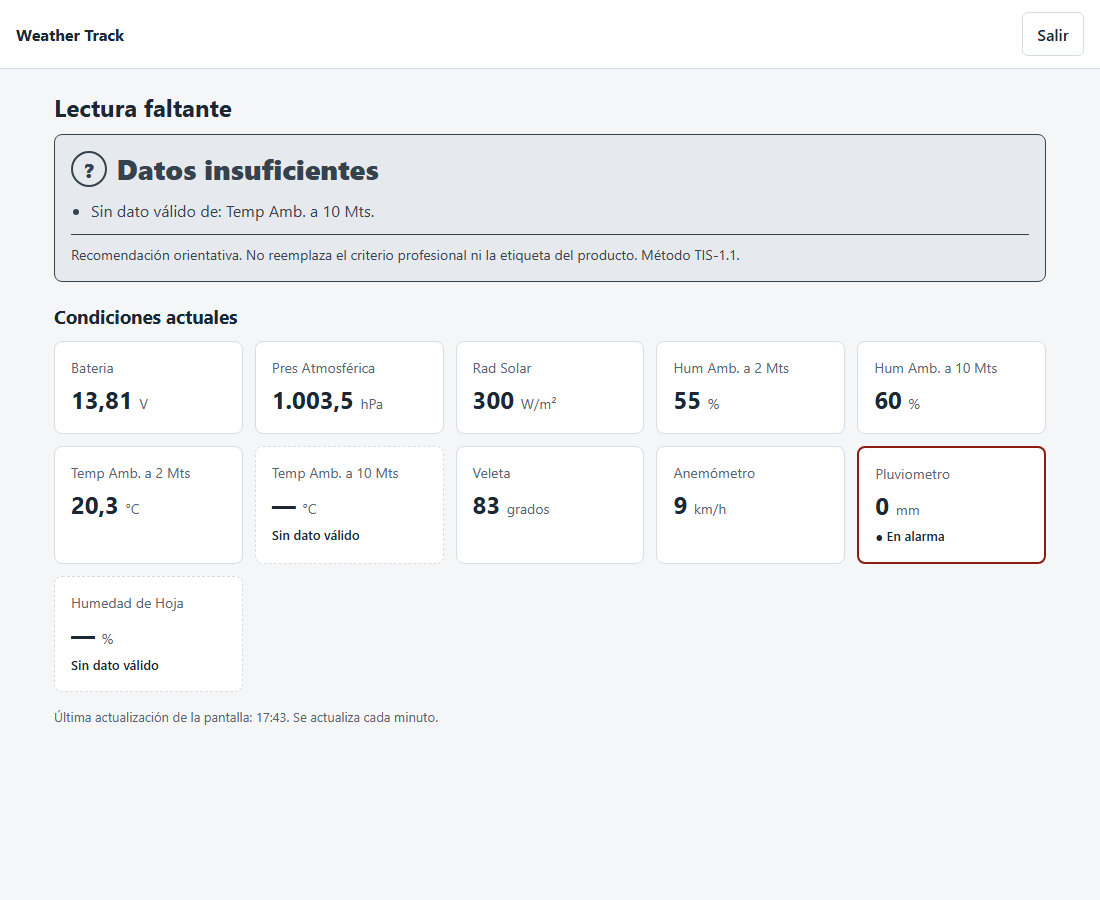
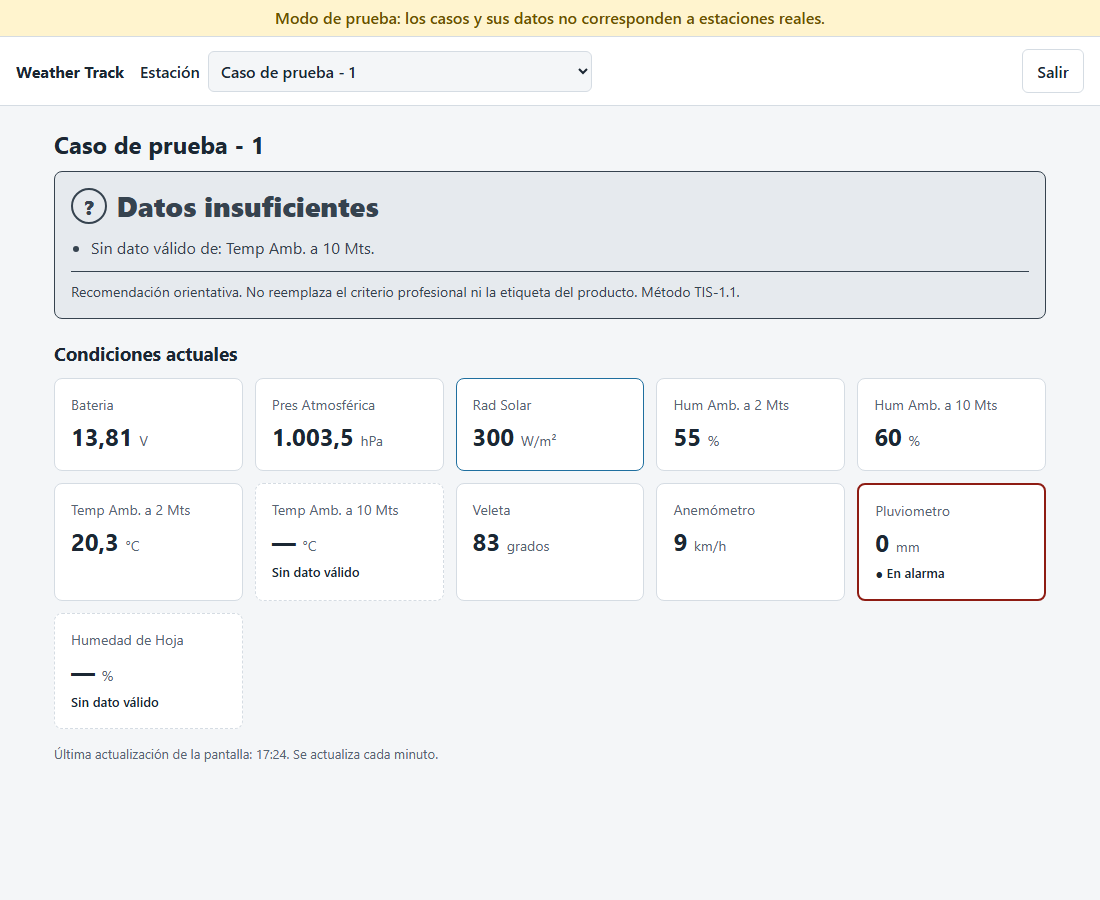
docs(estaciones): README, guía de la demo y capturas del selector (grupo 6)
- F2 del README: selector siempre visible y equipos inactivos con solo sus
  históricos. Diagrama de la experiencia de usuario y tabla de pruebas al día.
- Ocho capturas nuevas: cuatro en modo simulado, con INTA Pergamino, y cuatro
  en modo prueba, con las situaciones cargadas en el caso 1, el selector y un
  equipo inactivo.
- La guía de la demo muestra el selector y el aviso de modo.
- weather-track-estaciones queda con sus 20 tareas hechas; se archiva cuando
  el responsable apruebe la aplicación local.

diff --git a/readme.md b/readme.md
@@ -63,7 +63,7 @@ https://github.com/dinannopabloguillermo/AI4Devs-finalproject-temp
 | ID | Funcionalidad | Descripción |
 |---|---|---|
 | F1 | Acceso | Inicio y cierre de sesión con cuentas propias de Weather Track. Las cuentas las crea un administrador; no hay registro público. |
-| F2 | Estación | Selección entre las estaciones asignadas al usuario. |
+| F2 | Estación | Selector siempre visible con las estaciones: cada una es un equipo de SAT2, hoy INTA Pergamino. Un equipo que deja de llegar de SAT2 queda inactivo y muestra solo sus históricos. |
 | F3 | Condiciones actuales | Una tarjeta por sensor con valor, unidad, calidad del dato y antigüedad. |
 | F4 | Recomendación | Estado de aplicación, índice TIS (Índice de Inversión Térmica), diferencia térmica y motivos. |
 | F5 | Históricos | Serie por sensor de los últimos 7 o 31 días, con resumen estadístico. |
@@ -126,25 +126,31 @@ La recomendación es **orientativa** y la pantalla lo indica siempre. Los pesos 
 
 ```mermaid
 flowchart LR
-    A["Acceso"] --> B["Elegir estación"]
-    B --> C["Pantalla de decisión"]
+    A["Acceso"] --> C["Pantalla de decisión<br/>de la primera estación activa"]
+    B["Selector de estación<br/>en el encabezado"] --> C
+    B --> G["Equipo inactivo:<br/>solo históricos"]
     C --> D["Motivos de la recomendación"]
     C --> E["Detalle de un sensor"]
+    G --> E
     E --> F["Históricos"]
 ```
 
 La **pantalla de decisión** es el centro de la experiencia. Muestra primero el estado de aplicación con su color, debajo los motivos y el aviso de que es orientativa, y al final las tarjetas de sensores. Se actualiza sola cada 60 segundos. Si los datos no son vigentes, el estado pasa a `DATOS_INSUFICIENTES` y explica por qué.
 
-Capturas del MVP, con datos ficticios:
+El encabezado tiene siempre el selector de estación, aunque haya una sola. En los modos con datos ficticios, una franja lo avisa en todas las pantallas.
+
+Capturas del MVP, con datos ficticios. Las primeras cuatro son del modo `simulado`, con el nombre de la estación real; las demás, del modo `prueba`, con las situaciones cargadas en "Caso de prueba - 1":
 
 | Pantalla | Captura |
 |---|---|
-| Acceso | ![Pantalla de acceso](docs/capturas/acceso.png) |
-| Decisión: apto | ![Estado apto para aplicar](docs/capturas/decision-apto.png) |
-| Decisión: no aplicar | ![Estado no aplicar por inversión con poco viento](docs/capturas/decision-no-aplicar.png) |
-| Decisión: datos insuficientes | ![Estado datos insuficientes por una lectura faltante](docs/capturas/decision-datos-insuficientes.png) |
+| Acceso | ![Pantalla de acceso con el aviso de datos simulados](docs/capturas/acceso.png) |
+| Decisión: apto | ![Estado apto para aplicar en INTA Pergamino](docs/capturas/decision-apto.png) |
 | Detalle e históricos | ![Detalle de un sensor con su gráfico y resumen](docs/capturas/detalle-sensor.png) |
 | Móvil, a 360 píxeles | ![Pantalla de decisión en un celular](docs/capturas/decision-movil.png) |
+| Decisión: no aplicar | ![Estado no aplicar por inversión con poco viento](docs/capturas/decision-no-aplicar.png) |
+| Decisión: datos insuficientes | ![Estado datos insuficientes por una lectura faltante](docs/capturas/decision-datos-insuficientes.png) |
+| Selector con dos estaciones | ![Encabezado con el selector de estación](docs/capturas/selector-estacion.png) |
+| Equipo inactivo | ![Equipo inactivo con la lista de sensores para ver sus históricos](docs/capturas/equipo-inactivo.png) |
 
 En `docs/prototipo/` quedan las capturas del prototipo de validación, que sirvió de referencia. No son del MVP.
 
@@ -370,13 +376,13 @@ Implementado y revisado en el [informe de seguridad](docs/seguridad/revision-ent
 
 ### **2.6. Tests**
 
-Resultado de la última ejecución, el 2 de noviembre de 2026: todas pasan.
+Resultado de la última ejecución, el 4 de noviembre de 2026: todas pasan.
 
 | Nivel | Herramienta | Qué cubre | Pruebas |
 |---|---|---|---|
-| Unitario, integración e ingesta | pytest, con PostgreSQL de prueba y SAT2 simulado | Motor, normalización, calidad, rutas de la API, permisos, restricciones de la base, ingesta y errores de SAT2 | 355 |
-| Frontend | Vitest, Testing Library | Estados de la pantalla de decisión y flujos de acceso e históricos | 46 |
-| Extremo a extremo | Playwright, contra la pila completa en contenedores | HU1, HU2 y HU3 básica, con los cinco estados y las reglas R1 a R4 | 14 |
+| Unitario, integración e ingesta | pytest, con PostgreSQL de prueba y SAT2 simulado | Motor, normalización, calidad, rutas de la API, permisos, restricciones de la base, ingesta, errores de SAT2, equipos inactivos, separación de datos reales y ficticios, modo prueba y situaciones | 428 |
+| Frontend | Vitest, Testing Library | Estados de la pantalla de decisión, selector de estación, equipo inactivo, avisos de modo y flujos de acceso e históricos | 52 |
+| Extremo a extremo | Playwright, contra la pila completa en modo prueba | HU1, HU2 y HU3 básica, con los cinco estados y las reglas R1 a R4 cargados como situaciones en "Caso de prueba - 1", más el selector y el equipo inactivo | 17 |
 | Seguridad | [`pruebas_negativas.py`](backend/herramientas/pruebas_negativas.py), contra la configuración de producción | Autorización, sesión, entradas, cabeceras y carga | 77 |
 
 Además, la ingesta se probó una vez contra SAT2 real, durante 38 minutos y con 48.427 lecturas. Los comandos están en la [sección 1.4](#14-instrucciones-de-instalación).

diff --git a/docs/demo/guion-demo.md b/docs/demo/guion-demo.md
@@ -45,7 +45,7 @@ Ese último comando muestra el correo y la clave de demostración. Abrir <http:/
 | Min. | Situación cargada | Dónde | Qué mostrar | Qué decir |
 |---|---|---|---|---|
 | 0:00 | `favorables` | Acceso | Ingresar con la cuenta de demostración | "¿Puedo aplicar ahora sin riesgo de deriva?" |
-| 0:30 | | Lista de estaciones | Los dos casos de prueba | Una estación es un equipo de SAT2; en la instalación real aparece INTA Pergamino |
+| 0:30 | | Selector del encabezado | Los dos casos de prueba y la franja "Modo de prueba" | Una estación es un equipo de SAT2; en la instalación real aparece INTA Pergamino. El selector está siempre, aunque haya una sola |
 | 1:00 | | **Caso de prueba - 1** | "Apto para aplicar", índice, diferencia térmica, hora, motivos y aviso | El estado no depende solo del color: lleva texto e ícono. La recomendación siempre es orientativa |
 | 1:30 | | Misma pantalla | Tarjetas de sensores, incluidas "Sin dato válido" y "En alarma" | Cada lectura informa su calidad. Se actualiza sola cada minuto |
 | 2:00 | `inversion_indice_bajo` | Caso 1 | "Precaución" con índice bajo | Regla R3: el índice solo daría apto, pero una inversión nunca lo es |
@@ -56,7 +56,7 @@ Ese último comando muestra el correo y la clave de demostración. Abrir <http:/
 | 4:30 | `sospechosa` | Caso 1 | "Precaución" y tarjetas marcadas | Regla R4: humedades incoherentes entre 2 m y 10 m. **Es lo que hoy ocurre en la estación real** |
 | 5:00 | `fuente_caida` | Caso 1 | Aviso "Sin conexión con la fuente de datos" | El sistema distingue una falla de la fuente de la falta de datos |
 | 5:30 | `con_historicos` | Caso 1, tocar *Temp Amb. a 2 Mts* | Gráfico y resumen; cambiar a 31 días | La línea se corta en los huecos, sin inventar datos |
-| 6:15 | | **Caso de prueba - 2** | "Datos insuficientes", sin mediciones | Un equipo sin lecturas nunca muestra una recomendación |
+| 6:15 | | **Caso de prueba - 2**, desde el selector | "Datos insuficientes", sin mediciones | Un equipo sin lecturas nunca muestra una recomendación. Si un equipo deja de llegar de SAT2, queda como "Equipo inactivo - solo históricos" |
 | 6:30 | | Herramientas del navegador, ancho 360 | La pantalla de decisión | Pensada para usarse en el lote, con el celular |
 | 6:45 | | Salir | Cerrar sesión | La sesión se invalida en el servidor |
 

diff --git a/docs/plan/hoja-de-ruta-entrega-final.md b/docs/plan/hoja-de-ruta-entrega-final.md
@@ -83,7 +83,7 @@ Una estación es solo una central meteorológica que llega de SAT2, un "equipo".
 - [x] Responder las preguntas abiertas (sección 5)
 - [x] Proponer los cambios de OpenSpec de cuentas y de estaciones
 - [x] El responsable aprueba los cambios (3 de noviembre de 2026)
-- [ ] Implementar las tareas, cada grupo con sus pruebas y su documentación
+- [ ] Implementar las tareas, cada grupo con sus pruebas y su documentación. `weather-track-estaciones`: 20 de 20, el 4 de noviembre de 2026. `weather-track-registro-cuentas`: pendiente
 - [ ] **El responsable verifica la aplicación local** y la aprueba
 
 ## 3. Línea B: despliegue público en Google Cloud, en pausa

diff --git a/openspec/changes/weather-track-estaciones/tasks.md b/openspec/changes/weather-track-estaciones/tasks.md
@@ -38,7 +38,7 @@ Las decisiones están en `design.md` (D1 a D8). Todo se verifica con Compose ais
 
 ## 6. Documentación
 
-- [ ] 6.1 Actualizar la F2 del README, la guía de la demo y las capturas, y verificar que ningún documento presenta casos de prueba como estaciones
+- [x] 6.1 Actualizar la F2 del README, la guía de la demo y las capturas, y verificar que ningún documento presenta casos de prueba como estaciones
 
 ## Workflow follow-up
 
